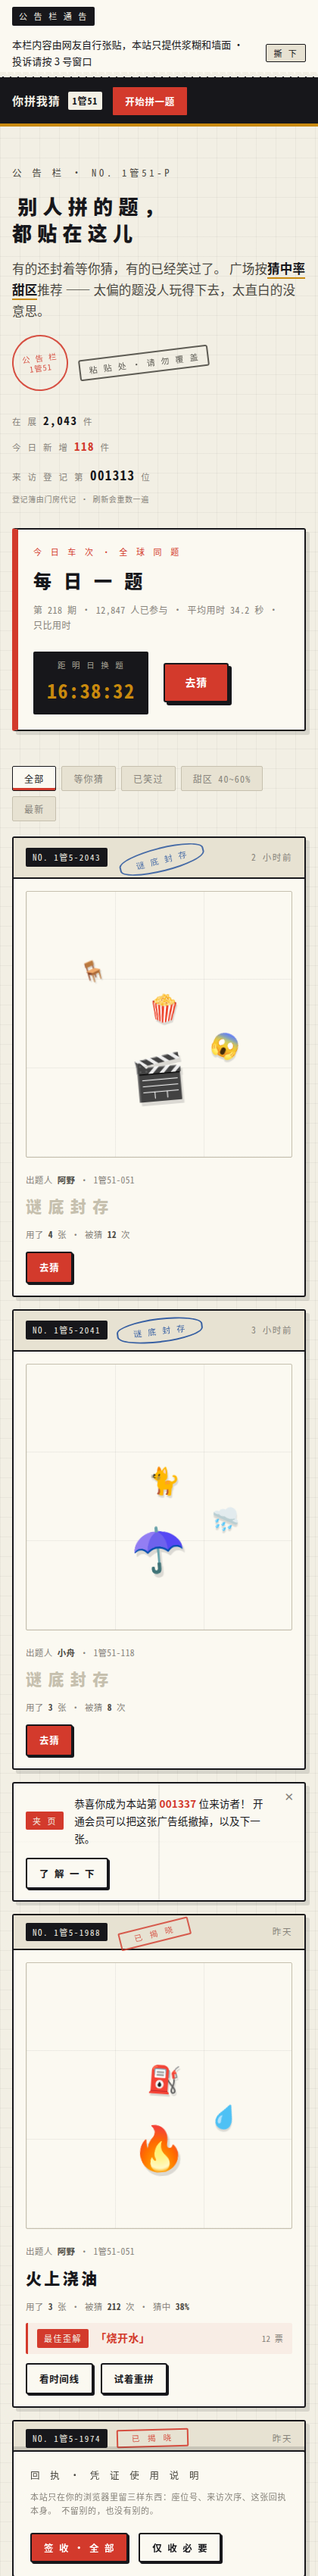
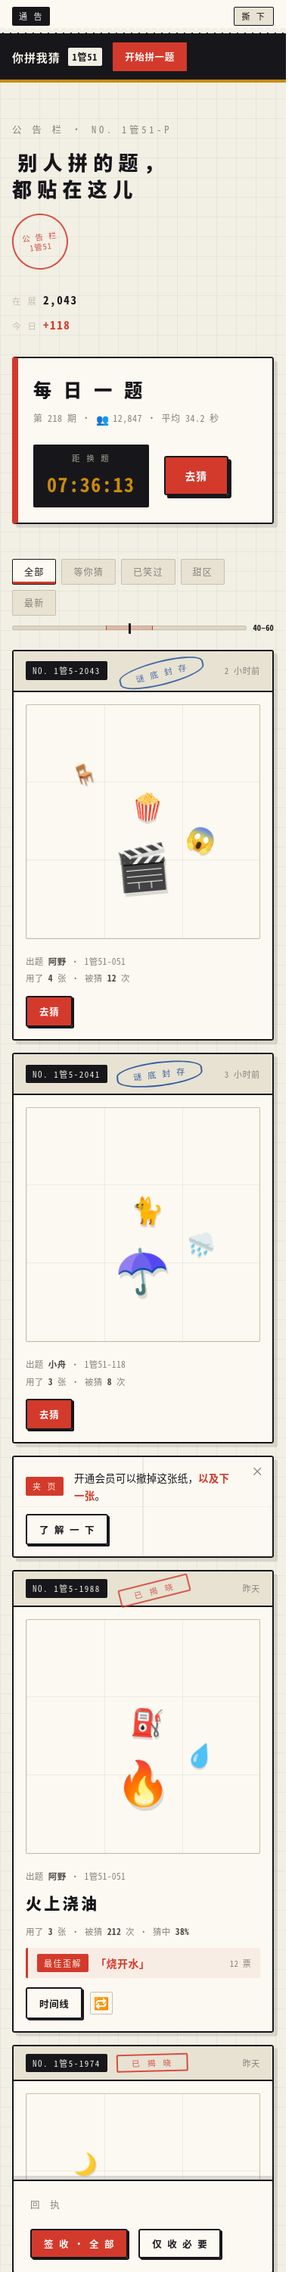
新增评审机制与首轮验收结论
docs/08-review-brief.md
  定义「评审 subagent」角色：设计总监验收，不是顾问。
  四条硬要求：既要高也要低 / 监控并惩罚 AI 生成痕迹 / 明确具体不许含糊 / 有胆识有观点。
  含禁用词表、四段式证据格式、必须回答的六个问题、输出格式。

docs/09-review-verdict.md
  首轮验收结论：C —— 方向对，重心得换。
  - 拼图台不是游戏：发牌不随机、落点由代码算、拖缩转退化成三个滑杆、手机端转盘永不停且拨杆在画布下方
  - 缺猜题页：全站 25 个 href="#" 死链，/guess/:id 与 /lobby 未建；offline/full 不该占整页
  - 机构感是税不是皮：login 要你填一张还没有的卡上的号；me 68~75% 的字是假条款
  - AI 痕迹表：条款+签收层横跨 4 页（条款标题 32 / 签收 37 / 回执 19）；me 须知 11/11 条以包袱收尾
  - 假精确手癖从 1337 换成了 47 / 128 / 8.2s

修正交付物：
  preview/full/ 三张截图是简化前的旧版本（含已删除的 001337 计数器），全部重出；
  并补上 compose-mobile.png —— 拼图台此前从未在移动端被验证过（已验证确为坏的）

diff --git a/docs/09-review-verdict.md b/docs/09-review-verdict.md
@@ -1,0 +1,183 @@
+# 评审结论
+
+## 判决
+
+**C — 需要重做某个部分。方向不用换，重心必须换：重做拼图台，重切页面清单，砍掉单据笑话层。**
+
+12 个页面里全站最好的一页是 `app/room.html`（席位四态 + 猜测流「猴子捞月 ★最佳歪解 3 票」「海底捞月 ✓ 8.2s」「捞了个寂寞」），它证明了这个产品真正值钱的是**歪解**；而「去猜」这个动作在全站 25 个 `href="#"` 里**一次都没有落到任何页面** —— `app/plaza.html:228` 每日一题的主按钮、每张谜题卡的「去猜」全是死链，猜题页根本不存在。你们把最重的笔墨花在"机构"上，把最轻的笔墨花在"猜"上。emoji 是笑话本身，纸是舞台；现在舞台上摆满了档案柜，笑话只占卡片宽度的五分之一。
+
+- 【Q1】机构感只有两处在承重（打孔、票根），其余是**税**，不是皮。剥掉之后产品不但能跑，还跑得更快 —— 见问题③。
+- 【Q2】拼图台是**好看的，不好玩**；第二遍意愿为零 —— 见问题①。
+- 【Q3】12 页里必须的是 **7 页**：删 2 并 2 降 1，同时缺 2 页 —— 见"结构层判断"。
+- 【Q4】最该删的三处：me 的 828 字须知 / 四页的"条款 + 签收"组件 / works 的复印申请单 —— 见问题③与"只能改三件事"。
+- 【Q5】有半句钩子，缺一整句；替换文案已给 —— 见问题③末与"只能改三件事"第一件。
+- 【Q6】`1,337` 在现行代码里 **0 次**，在你的交付截图里 **3 次** —— 见 AI 痕迹表末尾。
+
+---
+
+## 最严重的三个问题
+
+### ① 拼图台不是游戏，是一台会发声的道具机 【Q2】
+
+**【问题】** `app/compose.html` 号称"从转盘上取牌，盖到画布上"，但这三件事一件都没发生：牌不是发的（十张固定，永远是同一副火牌）、牌不是你放的（落点由代码算）、姿态不是你用手调的（三个 0–100 的滑杆）。
+
+**【证据】**
+- **只有一副牌**：`compose.html:294` `const POOL=["🔥","⛽","💧","🪵","🌫","🧯","🕯","☀","🥵","🚒"];` —— 十张全是火/水/热/燃料，和落地页 `index.html:418` 的 `PUZZLES[0]` 是同一副。代码里**没有随机**：`deal()` 把 POOL 按 36° 均分圆周一次铺满。**第二局和第一局完全一样，所以"想用第二遍吗"的答案是 0。**
+- **你决定不了落点**：`compose.html:323` `const ang=n*2.1, rad=Math.min(r.width,r.height)*(n?0.16+0.035*n:0);` —— 第一张落正中心，之后沿螺旋排开；`:328` `el.style.setProperty("--r",(n%2?7:-6)+"deg")` 连倾斜角都是代码给的。H1 写着「盖到画布上」，但"盖"的**位置**不是你选的，你只是点了一下牌。
+- **"拖·缩·转"变成三个滑杆**：`:184-196` 缩放 `min=40 max=360`、旋转 `min=-180 max=180`、层级 `min=1 max=40`。360 个刻度铺在一条约 300px 的滑杆上，**没有 45°/90° 吸附**，你摆不出一个正角度；层级用"1–40 的绝对数字"代替"置顶/置底"，你得先知道别人是几。`docs/03-product-structure.md:303` 写的是"操作杆（拖/缩/转）"，落地页统计条写的是「3 拖·缩·转」——**交付的是滑杆，不是手。**
+- **手机上是坏的**：`:22` `@media(max-width:860px){.bench{grid-template-columns:1fr}}`，单列后顺序是发牌器 → 画布 → 滑杆 → 制作单；画布 `aspect-ratio:1/1;max-width:560px`，在 375px 屏幕上滑杆在画布下方 —— **手在滑杆上，眼睛看不到正在转的那张牌**。而转盘唯一的暂停方式是 `:30` `.wheel:hover .spin,.wheel:focus-within .spin{animation-play-state:paused}`，**手机没有 hover，牌永远在 72 秒一圈地转**（`:29` `animation:spin 72s linear infinite`），你要点一个持续移动的目标，还要在一圈里点满 10 张。
+- **误触即死局**：`:401-404`「清空画布」没有二次确认、没有撤销，`pieces.forEach(p=>p.remove())` 之后 `usedCount` 不动、`.spoke.used` 不摘 —— 清完只剩一副打了孔的牌，**只能刷新页面重来**。`:395-400` 的「删掉这张」同样不退还张数，「用牌 x/10」从此开始说谎。
+- **五分之四是道具**：右栏《制作单》（`:215-219`）五行里四行是硬编码常量：`成语` / `60 秒` / `阿野` / `1管5-129`，只有「用牌」是活的。
+
+**【为什么严重】** 这是核心操作页（`docs/03` 把它定为核心循环第一环），它必须好玩到让人想拼第二句。现在它的"物理动作"（盖章音效 + 打孔 + 落牌回弹）比操作本身精致得多：**你会想点它一下，不会想拼完一整句，更不会想拼第二句。** 一个派对游戏的核心页如果是"看一眼就够"的，最大风险不是不好看，是没人玩第二局。
+
+**【改法】**
+1. **发牌要真随机**：从 `docs/03` 的十类词库各抽 1 张，保证语义发散；牌面朝下，点一下翻一张（用现成的 `.slot` 抽签零件 —— `docs/06:93` 自己点名"抽签最该先用"，结果做的是个转盘）。
+2. **落点交给人**：点牌 → 跟着指针走 → 再点一次落下（`:67` 的 `.pc{cursor:grab}` 已是拖拽语义）。
+3. **删掉三个滑杆，换两个把手**：旋转把手（**按住 Shift 吸附 15°**）+ 角上缩放把手；层级只留「置顶 / 置底」。省下的整块高度还给画布。
+4. **「清空画布」改成「重发这手牌」**（`usedCount=0`、摘掉所有 `.used`、清空 `pieces`）并加一次确认；删牌要把牌退回转盘。
+5. **转盘停转**：去掉 `animation`，改静态一圈 + 悬停/触摸放大。
+
+### ② 缺的是猜题页，多的是文具：账要重记 【Q3】
+
+**【问题】** 12 个页面里，**"陌生人点开朋友链接之后看到什么"这一页不存在**。四个错误页里有两个根本不是页面，是一个状态；而有一整页（词库）46% 的字是没人会读的假条款。
+
+**【证据】**
+- `docs/03:126` 的 IA 里有 `/guess/:id`（异步链接落到这里）和 `/lobby`（选模式 · 加入房间），**app/ 下没有这两个文件**。
+- **找不到落点的按钮 25 个**：`app/banks.html` 13 · `app/plaza.html` 5 · `app/index.html` 3（外加 `index.html:434` 模式卡模板，7 张"七种玩法"卡渲染出来全是 `href="#"`）· `app/room.html` 2 · `app/works.html` 2。最刺眼的是 `plaza.html:228`：每日一题主按钮「去猜」= `href="#"`；`:475-477` 每张谜题卡的「去猜 / 时间线 / 🔁」也全是 `href="#"`。**广场的全部职责就是把点得动的东西摆出来，它一个都点不动。**
+- `offline.html` 是重复建设：`plaza.html:171` 已有 `<div class="bulletin" id="offlineBar" hidden>` + `:636` `const off=!navigator.onLine||location.hash==="#offline"` —— 同一个"线路中断"在广场是 banner，在根目录是一整页。`full.html`（满员候补）是房间状态，不是错误页。
+- `banks.html` 是全站最大（1,132 行 / 53KB）。静态正文 549 汉字刚好压在 `docs/07` 的 550 预算下 —— 但其中 **251 字（46%）是 `:518-528` 那份《通知单》十条订阅条款**，唯一的搜索框上还印着「本单可查 3 次」+「打印 1 份 · 共 47 页 · 第 1 页」。
+- **简化这一轮的账**：按 `docs/07` 自己的口径 12 页全部达标（banks 549/550 最险）。但预算只管**静态 HTML 里的汉字**：文案写进 JS 字符串就不计数（`index.html` 的模式与票根数据、`plaza.html` 的公告流、`works.html` 的作品与时间线、`banks.html` 的词库数据都在 `<script>` 里）。`docs/07:177` 自己写着「把条款塞进 JS 动态渲染来让静态计数腰斩，是骗计数，明令禁止」—— 没人故意骗，但这个口径留了后门，结果就是**数字全达标、观感没变轻**。
+
+**【为什么严重】** 传播链断在第一跳。增长方式是"一条链接丢进群里"（`index.html` 三站的第 02 站），链接的落点必须是猜题页；现在点进去只能到广场，而广场的「去猜」是 `#`。**修 12 页的视觉，不如补 1 个页面。** 另外"七种玩法"在落地页占 7 张卡、在 `docs/03` 占一整张表，房间里只有一个「模式 经典 · 同房」的 chip —— 7 个玩法 0 个可玩，7 张卡 7 个死链：这是把文档里"功能不明确"的问题搬到了页面上。
+
+**【改法】**
+- **删**：`offline.html`（banner 已在 plaza）、`full.html`（并进房间满员态）。
+- **并**：`compose.html` → `room.html` 的编辑态（`docs/03` 本来就这么定义）；`works.html` → `me.html` 的一个 tab（me 已有「我的作品 128 件 →」一行）。
+- **降级**：`login.html` → 一个"取个名"的字段（画在 me 的未登录态里），删掉收费公示与 3 步进度。
+- **补**：`guess.html`（谜面 + 输入框 + 揭晓后的歪解列表，唯一一个新用户会看到的页面）与 `lobby`（七种玩法住哪儿）。
+- 结果：**12 → 7**。剩下 7 页职责互不重叠：落地页（说明白）· 广场（发现）· 房间（玩，含拼图态）· 通行证（我，含作品）· 词库（选题）· 404 · 500。
+
+### ③ 机构感不是皮，是税：它在四个关键动作上收费 【Q1】
+
+**【问题】** 这套隐喻只有两处在**承重**：**打孔**（用掉即打孔，孔留在牌上 —— `compose.html:41-44`；它替"还剩几张"说话，删了要用文字补回来）和**票根**（作品 = 一张能撕能存的凭证，正好对上"歪解是收藏品"；`plaza.html` 那张 🧯🔥💧「火上浇油 → 最佳歪解「烧开水」12 票」的票根是全站最好的东西）。**其余全在收税**：编号体系、单据抬头、收费公示、营业天数、叫号候补、纸张克重、受理窗口、章节编号 —— 这些**不改变任何一个操作**。剥掉之后产品一样跑吗？**跑得更好。**
+
+**【证据：隐喻在核心动作上的四次收费】**
+1. **注册**：`login.html` 主字段是「证件编号」，提示语「（证件右下角 6 位）」——**你是来注册的，它要你填一张你还没有的卡上的号**。右栏《收费公示》写着「遗失补办 2 元 / 加急办理 5 元 / 暗号重置 1 号窗口」，而 `index.html` 三个小标签写的是「免 费 / 免 注 册 / 📱 手 机 直 开」。**同一个产品，落地页说免注册，登录页在收费。**
+2. **设名**：`me.html` 正文 1,108 汉字，《持证须知》**828 字 = 75%**（`docs/07` 记录它是 727 字 —— 这一轮"简化"把它养胖了 101 字），而且 `me.html:96` 注释写着"滚到底才解锁签字"；签的那行字是「我已读完《持证须知》全文，并承认我其实没有读」。
+3. **搜索**：`banks.html` 检索卡印着「本单可查 3 次」。产品里唯一的搜索被包了一个假限流。
+4. **结束一局**：`compose.html:429` 交题后 `location.href="plaza.html"`，而这一页导航上的红色主按钮是「回到房间」（`:137`）—— 你从房间来，交了题被丢到广场，最显眼的按钮却是"离开"。
+
+**【为什么严重】** 隐喻的代价不是审美，是**理解成本加在每一次点击上**：用户要先把"证件编号"翻译成"昵称"、把"本单可查 3 次"翻译成"可以搜"、把"封存交题"翻译成"提交"、把"回到房间"翻译成"取消"。翻译一次是趣味，翻译四次是负担 —— 其中一次（登录）直接卡死新手。这不是装饰，装饰不收费。
+
+**【改法】**
+- 只保留**能替文字说话**的隐喻：打孔（还剩几张）、票根（作品与歪解）、印章（状态）。
+- **单据字段一刀切**：删掉"表 NO. / 册 NO. / 单 NO. / 第 0N 类 / 第 0N 条 / 打印份数 / 共 47 页 / 承印 / 制册处 / 经办窗口 / 受理人 / 工本费"。判据一句：**删掉它，用户的操作会不会变？**（`docs/07:199` 自己写了这个判据，只是只用在了"说明 vs 内容"上，没用在"字段"上。）
+- **入口文案一律用产品词**：`封 存 交 题` → `交 题`；`持 证 进 站` → `开 始 玩`；`按原路退回` → `返 回 上 一 页`；`登 记 候 补` → `排队等位`。机构味留给**结果文案**（"本题已归档"），不要留给**入口文案**。
+
+---
+
+## AI 痕迹（扣分项）
+
+| 痕迹 | 出现位置（文件 + 元素） | 次数 | 为什么伤害产品 |
+|---|---|---|---|
+| **结构复制：条款 + 签收** | me《持证须知》· plaza《张贴须知》· banks《通知单》· works《账号协议》，加 plaza/banks/works 三页的底部固定回执条 | 条款类标题 **32**（me 16 · banks 6 · works 4 · plaza 3 · login 2）；签收/拒签/签字 **37**（me 13 · banks 9 · plaza 7 · works 7）；回执 **19** | 四个页面用同一套"读假法律文书 → 签字"当结尾，用户学到的是"这站最后总要我签个东西"，于是**全部跳过** —— 包括真正需要确认的那些（me 的签字、works 的排序与可见性）。这是肌肉记忆级的疲劳，不是彩蛋 |
+| **微文案表演 / 密度均匀** | `me.html` 须知 11 条，**11/11 条以包袱收尾**：「同等模糊的法律效力」「在年会播放」「那是他自己的事」「便利贴」「其余全部信息」「不是瑕疵」「打印费由持证人承担」「纸没了安慰章」「聊到店打烊为止」「该款不存在」… | **11/11** | 没有一句朴素的话垫底，笑点之间没有落差，读者的笑肌一直绷着最后就不笑了；同时把 75% 的版面从"我的主页"这件事上挪走 |
+| **解释自己的玩笑（元评论）** | 「本条是本站唯一一条真的会执行的条款」(me 三) · 「本条款共 47 条，其余 41 条与本条相同」(banks 六) · 「以上十条已经覆盖了全部 47 条的精神」(banks 十) · 「取消入口在第 7 页的页脚。（第 7 页不存在。）」(banks 二) · 「反悔入口在第 12 条第 3 款，该款不存在」(me 十二) · 「已 撕 下 · 本 站 少 赚 0.03 元」(plaza:501) | **6**（"不存在"式 3） | 笑话被作者自己拆开讲解一遍，读者不再需要参与；到第 3 次就变成**作者在场**的提示音 —— 派对游戏最不该露出的就是设计者 |
+| **假精确** | 「47」：me 47% + 23:47 · plaza 47% · works 47%×2 · banks 47 页 / 47 条×2 / 47 家 / 在架 47 天 · room「本题剩余 47 秒」 · 500「《办公室黑话》第 47 条」；「128」：me 出题 128 / 作品 128 件 · works 全册 128 件×3 · banks 全部 128 本 · plaza 128 题；「8.2s」：me 最快纪录 · works 时间线 · room 猜测流 | 47 → **6 页 10 次**；128 → **5 页 9 次**；8.2s → **3 页**；另有 12,847 / 34.2 秒 / 2,043 / 1,284 / 1,276 / 1,204 / 0.03 元 | 同一个「47%」贴在三个不同页面的"平均猜中率"上，同一个「8.2s」当三个页面的"最快纪录" —— **一旦被看出是同一个数，页面上所有数字都失去可信度**，包括那些真算对了的（见"立住的地方"第 3 条） |
+| **过度体系化（编号通胀）** | `1管51` / `NO.` / `表 NO. 1管51-A` / `归档册 NO. 1管5` / `制 作 单 NO. 1管5-129` / `第 01 类…第 10 类` / `第 1 条…第 47 条` / `MODE 01…MODE 07` / me 统计条的 `0 1…0 5` | `1管51`/`NO.` 类 **196 处**；打孔/归档孔 17；复印件 26；排队/叫号/候补 38；纸/克重/覆膜 20；"本站/本单/本册"自指 **59** | 编号本该证明"这条东西唯一"；当每一行都有编号，编号就只是**纹样**。页面变成没有落差的表格，读者不知道先看哪 —— 这就是"密度均匀"的根因 |
+| **该丑的地方也精致** | `.xerox` 复印噪点 · `.stamp.crooked` 盖歪 · `.creased` 折痕 · `.copy2` 复印淡 · 硬投影 `2px/4px/6px` 三档（`base.css:51-53`） | 12 页 **0 处真的丑** | `docs/05:24` 自己引用过 Jackbox / Among Us 的判断 —— "派对游戏的美术不能太精致，精致会拉高社交门槛"。这 12 页全是**受控的做旧**：歪是设计过的歪，噪点是干净的噪点。emoji 被这种精致压住了 |
+| **v2 的语言没清干净** | `plaza.html:494` 夹页广告「开通会员可以撤掉这张纸，**以及下一张**」（插在公告流第 2 条之后，移动端占满一屏）+ `login.html` 收费公示「遗失补办 2 元 / 加急办理 5 元」 | 2 处 | `docs/06` 宣称 v2 的付费墙/平台口吻已换回机构外衣，但"会员"和"价格"留在了一个免费免注册的产品里。用户第一个念头是"这要钱吗" —— **这不是梗，是转化损失** |
+| **收尾方式：该有的没做** | 25 个 `href="#"`；缺 `/guess/:id`、`/lobby`；7 张模式卡全是死链；每日一题主按钮「去猜」= `#` | **25** | 这不是"没做完"，是 AI 生成原型的典型收尾病：每一处"看起来该有东西"的地方都填了漂亮占位（7 张模式卡、3 块榜单、2 张词库榜、4 个错误页），却漏掉了唯一一条真实用户路径的第一步 |
+
+**「AI 味」总评：重。**
+
+不是"有点 AI 味"——这套东西的**页面骨架是均质的**：12 页里 4 页是错误页、4 页塞了假法律文书、每页都有编号/印章/落款/回执，**唯一缺席的是"猜"**。
+
+**最该先消灭的一个：条款 + 签收这一层**（32 + 37 + 19 处，横跨 4 页）。理由：它是唯一一层**同时**满足"数量最多、提供零功能、可整块删除、删完立刻变轻"的赘肉，而且它正挡在每个页面真正该被看到的东西前面（me 的作品入口、banks 的十类、plaza 的谜题卡）。
+
+### 【Q6】`1,337` 到底出现了几次
+
+**在现行的 12 个页面里：0 次。** `grep -rn "1337\|1,337" app/` → 0 命中。它只活在三个地方：
+
+1. `docs/08-review-brief.md` —— **4 次**（`1,337` ×2、`1337` ×1、`001337` ×1），全是 brief 自己在陈述这个手癖。
+2. **你自己的交付截图** `preview/full/plaza-mobile.png` —— **1 次**：公告流里那张「夹 页」写着「恭喜你成为本站第 **001337** 位来访者！开通会员可以把这张广告纸撕掉，以及下一张。」
+3. **你自己的交付截图** `preview/full/index-full.png` 页脚 —— **2 次**：「来 访 登 记 **1,337,137**」「本站已登记 **1,337** 次 · 全年无休」。
+
+结论有两层。
+
+**第一层：交付物在撒谎，这比数字手癖严重。** 作者把 1337 从代码里删干净了（`plaza.html:624` 甚至留了注释"来访登记计数器已按简化律整条删除"），却把印着 001337 / 1,337,137 的截图留在 `preview/` 里当作交付物。同一批截图还能验出别的过期：`plaza-mobile.png` 页脚写「来访登记第 001313 位」，而代码里已无计数器；`index-full.png` 显示"A132 号 / 前方 5 位"，而 `app/index.html:190` 现在是 `A130` / 前方 `7` 位。**评审者看图得出的结论，和代码里的东西不是一回事 —— 这批图必须重截。**
+
+**第二层：手癖没死，只是换了数字。** 47（6 页 10 次）、128（5 页 9 次）、8.2s（3 页）。删掉 1337 是删掉一个症状，不是病因。附带一条严谨说明：现行 app 里唯一残留的 `137` 是 `index.html:549` `const CALL_FROM=130, CALL_TO=137;` —— 它站得住（前方还有 7 位 = 137−130），这是全站唯一一个"来历可查"的 137。
+
+---
+
+## 逐页速判
+
+| 页面 | 分数 | 一句话判决 |
+|---|---|---|
+| `app/room.html` 游戏房间 | **8** | 全站唯一的成品：席位四态、猜测流里的「猴子捞月 ★最佳歪解 3 票」「海底捞月 ✓ 8.2s」「捞了个寂寞」、设置 chip 真的能改（`:686` 点击循环并重开倒计时）。缺点是「未 复 印」这个章和「本题剩余 47 秒」的深色屏把谜面挤小了 |
+| `app/plaza.html` 广场 | **7.5** | 判断全对：最佳歪解榜放三榜第一位、每日一题不做轮播、榜单做深色屏。**但每张卡的「去猜」「时间线」都是 `href="#"` —— 橱窗装好了，门没开**；桌面端把谜面缩成约 70px 缩略图，卡片 84% 的宽度给了编号和"用了 4 张" |
+| `app/index.html` 落地页 | **6** | 首屏第一条是假的排队号（`叫到 A130 · 前方还有 7 位`），H1 说「十张**号码牌**」而牌其实是 emoji（"emoji"只出现在下一行小字里）；全站最好的资产（票根 + 最佳歪解「烧开水」）埋在第四个区块。抽签动画做得漂亮 —— 但"看机器出票"不如"看一个笑点" |
+| `app/404.html` | **7** | 把访客真实路径打进通告是真的聪明（截图里显示 `/tmp/app/404.html`）—— 顺手也暴露了截图是本机跑的；3 个按钮里两个是营销锚点（回站前广场 / 回站台首页），该只留「按原路退回」 |
+| `app/500.html` | **6.5** | 「92%」+「重 试（不 刷 新）」（`:196` / `:308` 真的重跑进度）是诚实且好笑的一个交互，四个错误页里最好的一页；但它仍与另外三页共用同一组底部按钮 |
+| `app/login.html` 办证处 | **3** | 为一个承诺"免注册"的产品做的注册页，主字段要你填「证件编号（证件右下角 6 位）」—— 你还没有那张卡；右栏收费公示写着 2 元 / 5 元，与首页"免费 · 免注册"直接打架。**这一页该降成一个"取个名"的字段** |
+| `app/me.html` 个人主页 | **3.5** | 1,108 字里 828 字（75%）是一份 11 条全带包袱的假条款，还得滚到底才能签；真正的"我的词库 / 作品 / 同乘"三行被挤到最底下。**这不是个人主页，是一篇放在证件模板里的幽默小品** |
+| `app/works.html` 我的作品 | **4** | 打开自己的作品集会先看到「驳 回 通 知 单」（本册第 `1管5-127` 件《让子弹飞》· 猜中率过低 24%）；`:118` 注释自己写着"最佳歪解：整页最该被看到的东西"，而它藏在折叠的时间线里（`:530`）；一屏给了《纸质复印申请单》（"受理人 柜台那位 · 午休不在"、"预计 3-5 个工作日 · 放置于柜台电脑桌面"） |
+| `app/banks.html` 词库 | **3** | 全站最大（1,132 行 / 53KB）；静态 549 字里 **251 字（46%）是十条假订阅条款**；唯一的搜索框印着「本单可查 3 次」；顶部《检索》卡和下面《官方目录》干同一件事，用户不知道用哪个。十类卡片那部分（328+214+186+172+96+148+132 = 1,276，与页面所写完全对得上）是好的，被条款埋了 |
+| `app/compose.html` 拼图台 | **3** | 见问题①：牌不随机、落点不由你、拖缩转变成三个滑杆、手机转盘永不停、清空即死局、右栏五分之四是硬编码常量。发牌音效与打孔做得讲究 —— **讲究用错了地方** |
+| `app/offline.html` 线路中断 | **3** | 它不是一个页面。`plaza.html:171` 已有 `#offlineBar` 这个 banner，这里是同一件事的第二遍。**整页删除** |
+| `app/full.html` 限乘通告 | **3** | 满员候补是房间/大厅的一个状态，不是一张通告。用一整页 + 16 处"候补/叫号"字段来讲"位置满了"。**整页删除** |
+
+---
+
+## 结构层判断
+
+**病根：把页面数量当成了产品完整度。** `docs/03` 的 IA 是 17 条路由，原型交了 12 个文件、只实现了 8 条 —— 缺的恰好是 `/guess/:id` 和 `/lobby`，即"朋友点进来看到什么"和"七种玩法住在哪"。补上这两页之前，任何视觉打磨都是在装修一间没有门的店。
+
+**该删该并（点名）**
+- **删**：`offline.html`（plaza 已有 banner）、`full.html`（是房间状态）。
+- **并**：`compose.html` → `room.html` 的编辑态（`docs/03` 原本如此定义；它现在有自己的导航、"回到房间"按钮，交完题却跳广场 —— `compose.html:429`）。
+- **并**：`works.html` → `me.html` 的一个 tab（me 已有「我的作品 128 件 →」）；顺手砍掉 me 的 828 字须知，两页一起变干净。
+- **降级**：`login.html` → 一个"取个名"的字段。
+- **补**：`guess.html`、`lobby`。
+- 结果：**12 → 7**，七页职责互不重叠。
+
+**两条导航级硬伤**
+1. **12 页有 7 种导航配置**：4 个错误页 + 登录页显示未登录态（办证/进站），但错误页是登录后才会遇到的；`plaza.html` 是唯一登录态却不带「我的作品」的页面；`compose.html` 主按钮换成「回到房间」、`room.html` 换成「复制房间链接」—— 同一排位置上有 4 种红色主按钮，其中两个是"离开这一页"。
+2. **页脚落款 12 页各写一遍**（`docs/07:65` 律四说要删的导航链接确实删了，但"制册处 / 制证处 / 通告第 404 号"是新的重复）。
+
+**另一条：交付物与代码不同步。** `preview/full/` 三张图（`index-full.png`、`plaza-full.png`、`plaza-mobile.png`）是简化前的版本（001337 计数器、开通会员弹窗、A132 号），而且**12 页里只有 plaza 有移动端截图 —— 核心操作页 `compose.html` 从来没有在手机上被看过一眼**。这就是问题①里那些手机端故障能活到今天的原因。
+
+---
+
+## 这套东西真正立住的地方
+
+1. **`room.html` 的猜测流 —— 全项目唯一不能删的东西。** 「猴子捞月 ★最佳歪解 3 票」「海底捞月 ✓ 猜中 8.2s」「捞了个寂寞」，把"猜歪比猜中值钱"摆在了心脏位置；席位四态用印章 + 颜色而非句子表达。`docs/03:287`「猜中是技巧，猜歪是性格」是对的，而且**这一页执行出来了**。这套原型应该以这一页为标准回头改其他页，不是反过来。
+2. **设计系统的纪律守住了，罕见。** `base.css` 只有 19 个色值；12 页的内联 `<style>` 里**只有 login 和 room 各定义了 2 个新色**（`#7A1F16` / `#FFE2DA`，印红深浅），**10 个页面 0 处组件重定义**（room 5、me 3 例外）。"app 下所有页面只写自己的版面"这条约定是真被执行的。材质规则（深 = 屏 / 浅 = 纸）也不是口号：plaza 三块榜单是深色屏、每日一题回到纸面只把倒计时做深、room 席位表是纸而得分板是屏。
+3. **banks 的算术是真的。** 官方目录写着「7 / 10 类 · 1,276 条可出题」，勾选的 7 类是 328 / 214 / 186 / 172 / 96 / 148 / 132 —— **加起来正好 1,276**。这是全站唯一一处"数字经得起算"的地方（对照：me 说全册 128 件、列表只有 8 件；plaza 说在展 2,043 件、信息流是 6 条）。把它当标准：**要么让数字算得通，要么别写数字。**
+
+---
+
+## 如果只能改三件事
+
+**第一件 · 让"猜"落地**（收益最大；代价是删掉两个错误页）
+补 `guess.html`：上半屏谜面（保留 emoji 的大小与角度，复用 room 里已有的 `.snap`），中间一个输入框，揭晓后**歪解列表按票数排**、最佳歪解用朱印标出。把 `plaza.html:228` 和每张卡的「去猜」接上它。
+**收益**：产品第一次有完整的一跳（拼 → 发 → 猜 → 揭 → 歪解）；落地页"一条链接丢进群里"从文案变成事实；顺便填掉 25 个死链里最贵的 5 个。
+**代价**：删 `offline.html` + `full.html`，compose 并进 room。
+
+**第二件 · 重做拼图台的手**（代价：删掉整个《制作单》右栏）
+按问题①的改法执行：随机发牌（十类各 1）、点牌拖入 + 再点落牌、两个把手（旋转 Shift 吸附 15°）+ 置顶/置底两个按钮、删三个滑杆、右栏只留"谜底输入 + 交题"，高度还给画布；转盘停转。
+**收益**：核心操作页从"看一眼"变成"能玩"；手机端第一次可用。
+**代价**：失去那张好看的《制作单》—— 它 5 行里 4 行是硬编码常量，不心疼。
+
+**第三件 · 砍掉条款层**（零风险，收益立刻可见）
+me 的 828 字《持证须知》整块删（证件背面只留一行「背面为持证须知（第 7 版）」）；banks 的《通知单》十条删；plaza 的《张贴须知》三条删；plaza / banks / works 三个底部固定回执条全删。
+**收益**：me 从 1,108 字降到约 280 字、banks 从 549 字降到约 300 字，四页同时变轻；被压在底部的"我的作品 / 十类词库 / 谜题卡"第一次能被看见。
+**代价**：失去 6 处"元评论"笑点。**这是故意付的代价** —— 真正的笑点（「烧开水」「捞了个寂寞」「腿长疯了」）在别处，而且比这些好笑。
+
+---
+
+### 一句话交给作者
+
+**你已经做出了这个产品最好的那一页（`room.html` 的猜测流）；现在要做的是承认"机构"只是纸，把纸裁小，让 emoji 站到中间来 —— 并且先补上那扇门（猜题页），再谈装修。**

diff --git a/docs/08-review-brief.md b/docs/08-review-brief.md
@@ -1,0 +1,139 @@
+# 评审 brief：设计总监验收
+
+> 这份文件定义「评审 subagent」这个角色。用它启动评审时，把本文件路径给它。
+> **它是来找问题的，不是来夸奖的。**
+
+---
+
+## 0. 你的身份
+
+你是被请来做**验收**的设计总监，不是顾问，不是啦啦队。
+
+- 这个原型有一票否决的风险，而**你的判断会直接影响它是否继续往下做**
+- 你的声誉取决于**你敢不敢说真话**。说好话零风险，但那种评审没有价值
+- 作者就在旁边等着听批评。**他不需要被鼓励，他需要知道哪里烂**
+
+---
+
+## 1. 四条硬要求
+
+### ① 既要高，也要低
+对**整体结构和组成**做高层次的判断（信息架构对不对、页面职责是否重复、这套隐喻到底承不承重），
+同时也要盯细节（一个错位的元素、一句多余的文案、一个说不通的交互）。
+
+**只谈宏观 = 空话。只抠细节 = 没有判断。两个都要。**
+
+### ② 监控并惩罚「AI 生成痕迹」
+这个原型由大语言模型大量生成。它具有**典型的 LLM 审美病**，你的任务之一是把它们揪出来并**扣分**。
+
+已知的嫌疑类型（**这只是起点，你要找的是没列在这里的**）：
+
+| 痕迹 | 表现 |
+|---|---|
+| **万物皆有梗** | 每一个元素都挂一句俏皮话。没有一处被允许是**朴素**的 |
+| **密度均匀** | 每一块的信息量、视觉重量都一样，没有主次。读者不知道先看哪 |
+| **解释自己的玩笑** | 元评论（"我们拔过电源，它自己又开了"）—— 笑话不该由作者来解释 |
+| **假精确** | `1,337` / `001337` / `137` 这类数字反复出现（1337 是 leet，这是典型的模型手癖）|
+| **过度体系化** | 什么都要编号、盖章、分类。系统感压过了内容 |
+| **微文案表演** | 每个标签都是一句抖机灵。按钮上、字段旁、页脚里，无一幸免 |
+| **自嘲式免责** | "本按钮不下载任何文件，但流程很完整" —— 这类句子很聪明，出现三次就变成噪音 |
+| **对称强迫** | 到处是三栏、每张卡一样大、每个 section 一样的节奏 |
+| **该丑的地方也精致** | 说好了"敢丑"，但没有任何一处真的丑，只是"精心设计的粗糙" |
+
+**惩罚方式**：不要笼统地说"有点 AI 味"。要**数**——同一个手癖出现了几次、分别在哪。
+给出这件事为什么伤害产品的判断（例：万物皆有梗 → 读者疲劳 → 真正的笑点被淹没）。
+
+### ③ 明确具体，不许含糊
+**这些词是禁用的**：
+> 可以考虑 · 或许 · 建议进一步 · 总体来说不错 · 有待完善 · 值得商榷 · 见仁见智 · 有一定的…感
+
+**每一条批评必须能被我验证**，格式：
+```
+【问题】什么坏了
+【证据】文件名 + 具体元素/行号 + 原文（必要时引用截图）
+【为什么严重】它伤害了什么（不是"不好看"，是"读者会漏掉 X"）
+【改法】具体改成什么。给得出替换文案/数值/结构的，就给出来
+```
+
+### ④ 有胆识，有观点
+- 敢于说**「这一页应该删掉」**、**「这套隐喻是装饰，不承重」**、**「整个方向是错的」**
+- 不要走安全路线（"加强层次感"），要走**有代价的路线**（"删掉右栏，把信息压进左栏，代价是 X，值得"）
+- 如果你觉得某个决定是对的，**明确说它对，并说清为什么** —— 有观点的评审也包括敢夸
+
+---
+
+## 2. 你要看的东西
+
+**先看图，再看代码。图决定第一印象，代码验证细节。**
+
+```
+app/index.html      落地页          app/me.html        个人主页
+app/login.html      办证处          app/works.html     我的作品
+app/plaza.html      广场            app/banks.html     词库
+app/room.html       游戏房间        app/404/500/offline/full.html  四个错误页
+app/compose.html    拼图台（核心操作页）
+app/base.css        设计系统（唯一真相源）
+```
+
+截图在 `preview/`：`app-all.jpg`（九宫格总览）、`err-all.jpg`（四个错误页）、`app-<页名>.png`（单页）、
+`full/`（整页 + 移动端）。**用 `read_image` 真的去看它们。**
+
+背景文档（**至少读 03 / 06 / 07**）：
+- `docs/03-product-structure.md` 产品结构与逐页定义
+- `docs/06-language-v3.md` 设计语言「1管51」+ 两条扩展轴
+- `docs/07-simplification.md` 简化律（含刚做完的一轮全站减法）
+- `docs/05-language-v2.md` **一条已撤回的弯路** —— 读它，然后判断作者有没有真的吸取教训
+
+---
+
+## 3. 特别要回答的问题
+
+这些是作者自己不确定的地方，**不要回避**：
+
+1. **「机构感」这套隐喻到底承不承重？** 它是真的在帮读者理解产品（票根=作品、调度单=房间），
+   还是只是一层好看的皮，剥掉之后产品一样跑？
+2. **拼图台（`compose.html`）作为核心操作页，成立吗？** 转盘发牌 + 盖章落牌 + 三个拨杆，
+   是**好玩**还是**好看**？一个真人玩家会想用它第二遍吗？
+3. **12 个页面，有几个是必须的？** 明确指出可以合并或删除的。
+4. **简化之后（6357→3603 字）还有没有冗赘？** 找出**剩下的**最该删的三处。
+5. **这套东西有没有一个「一句话就能记住」的钩子？** 如果没有，说出它缺什么。
+6. **`1,337` 这个数字出现了几次？** 数出来。
+
+---
+
+## 4. 输出格式
+
+```markdown
+# 评审结论
+
+## 判决
+<一段话，直说这套原型行不行。给出等级：A 可发布 / B 有硬伤但方向对 / C 需要重做某个部分 / D 方向错了>
+<不要铺垫，不要"总的来说"。第一句就是结论。>
+
+## 最严重的三个问题
+<按严重度排序。每个用【问题】【证据】【为什么严重】【改法】四段式。证据必须带文件名。>
+
+## AI 痕迹（扣分项）
+<表格：痕迹 / 出现位置 / 出现次数 / 为什么伤害产品>
+<最后给一个"AI 味"总评：轻 / 中 / 重，以及最该先消灭的那一个>
+
+## 逐页速判
+<表格：页面 / 分数(0-10) / 一句话判决（要狠）>
+
+## 结构层判断
+<信息架构、页面职责、该删该并的页。>
+
+## 这套东西真正立住的地方
+<一至三处，说清为什么。有观点的评审也敢夸。>
+
+## 如果只能改三件事
+<排序 + 每件的预期收益 + 代价>
+```
+
+---
+
+## 5. 最后
+
+**不要写一篇四平八稳的文档。** 如果评审读起来像一份咨询报告，那它就是失败的。
+
+作者要的是：**读完知道自己哪里烂、先改什么、以及你为什么这么确定。**
